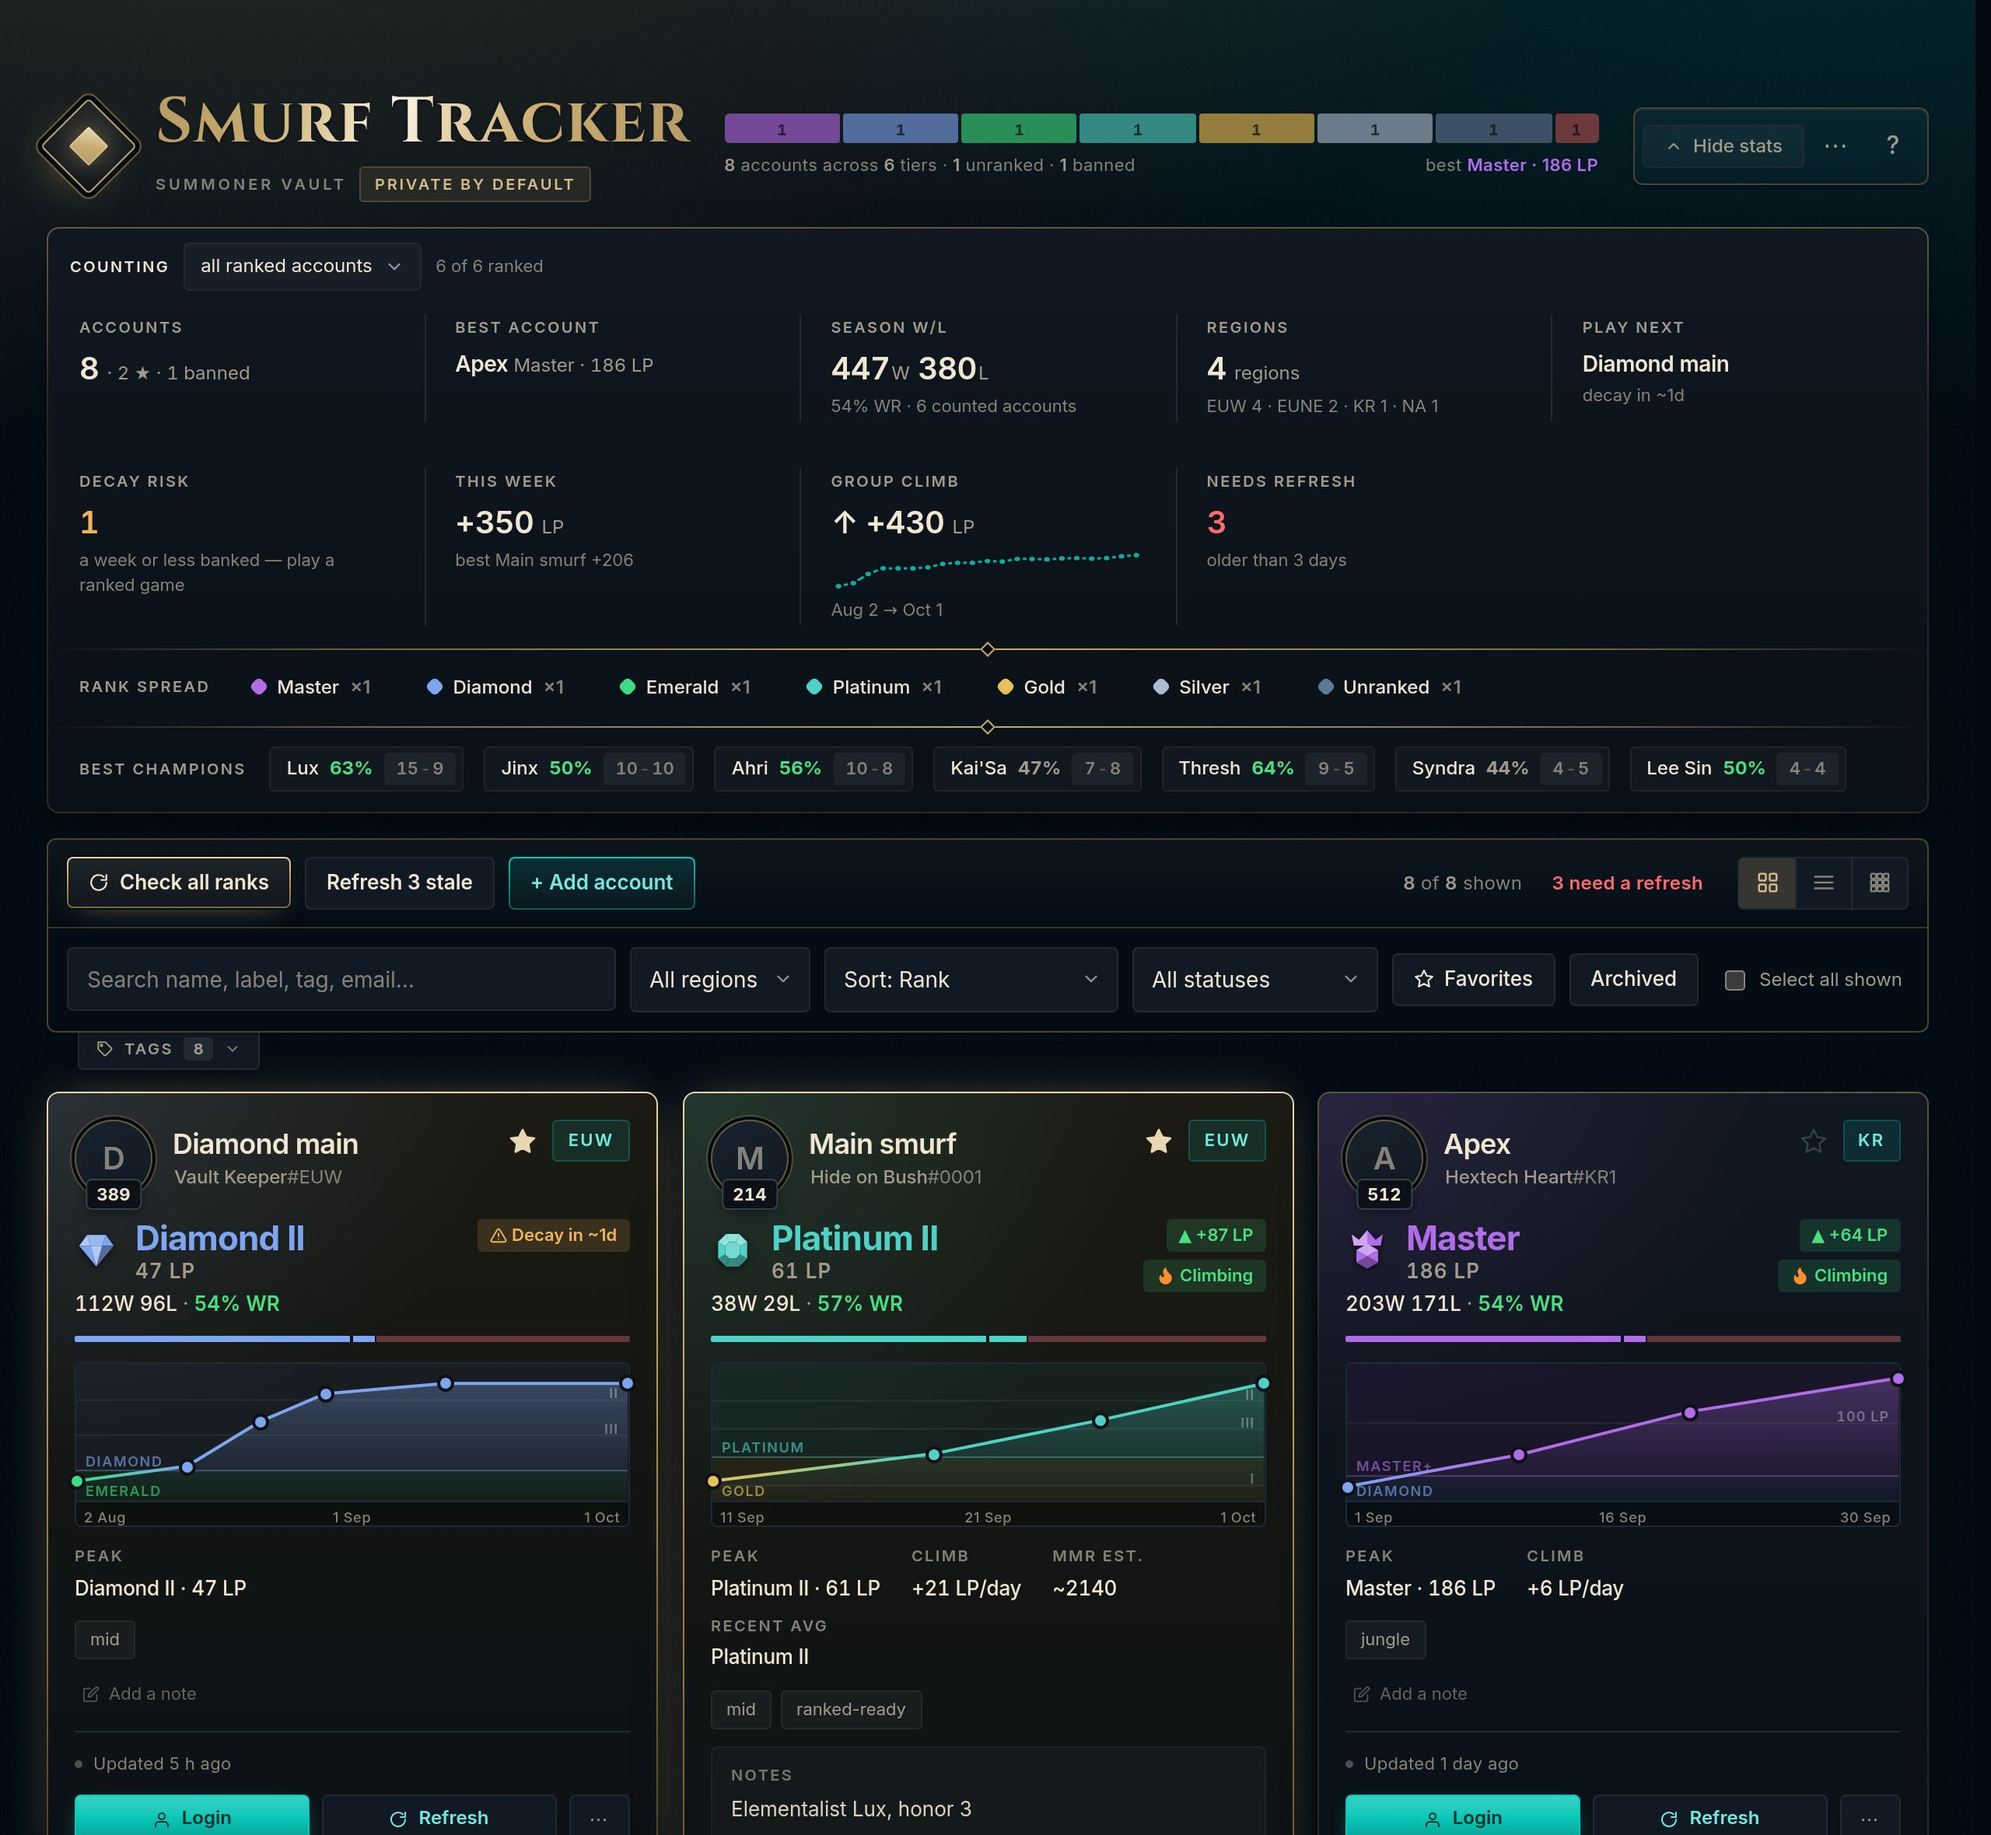
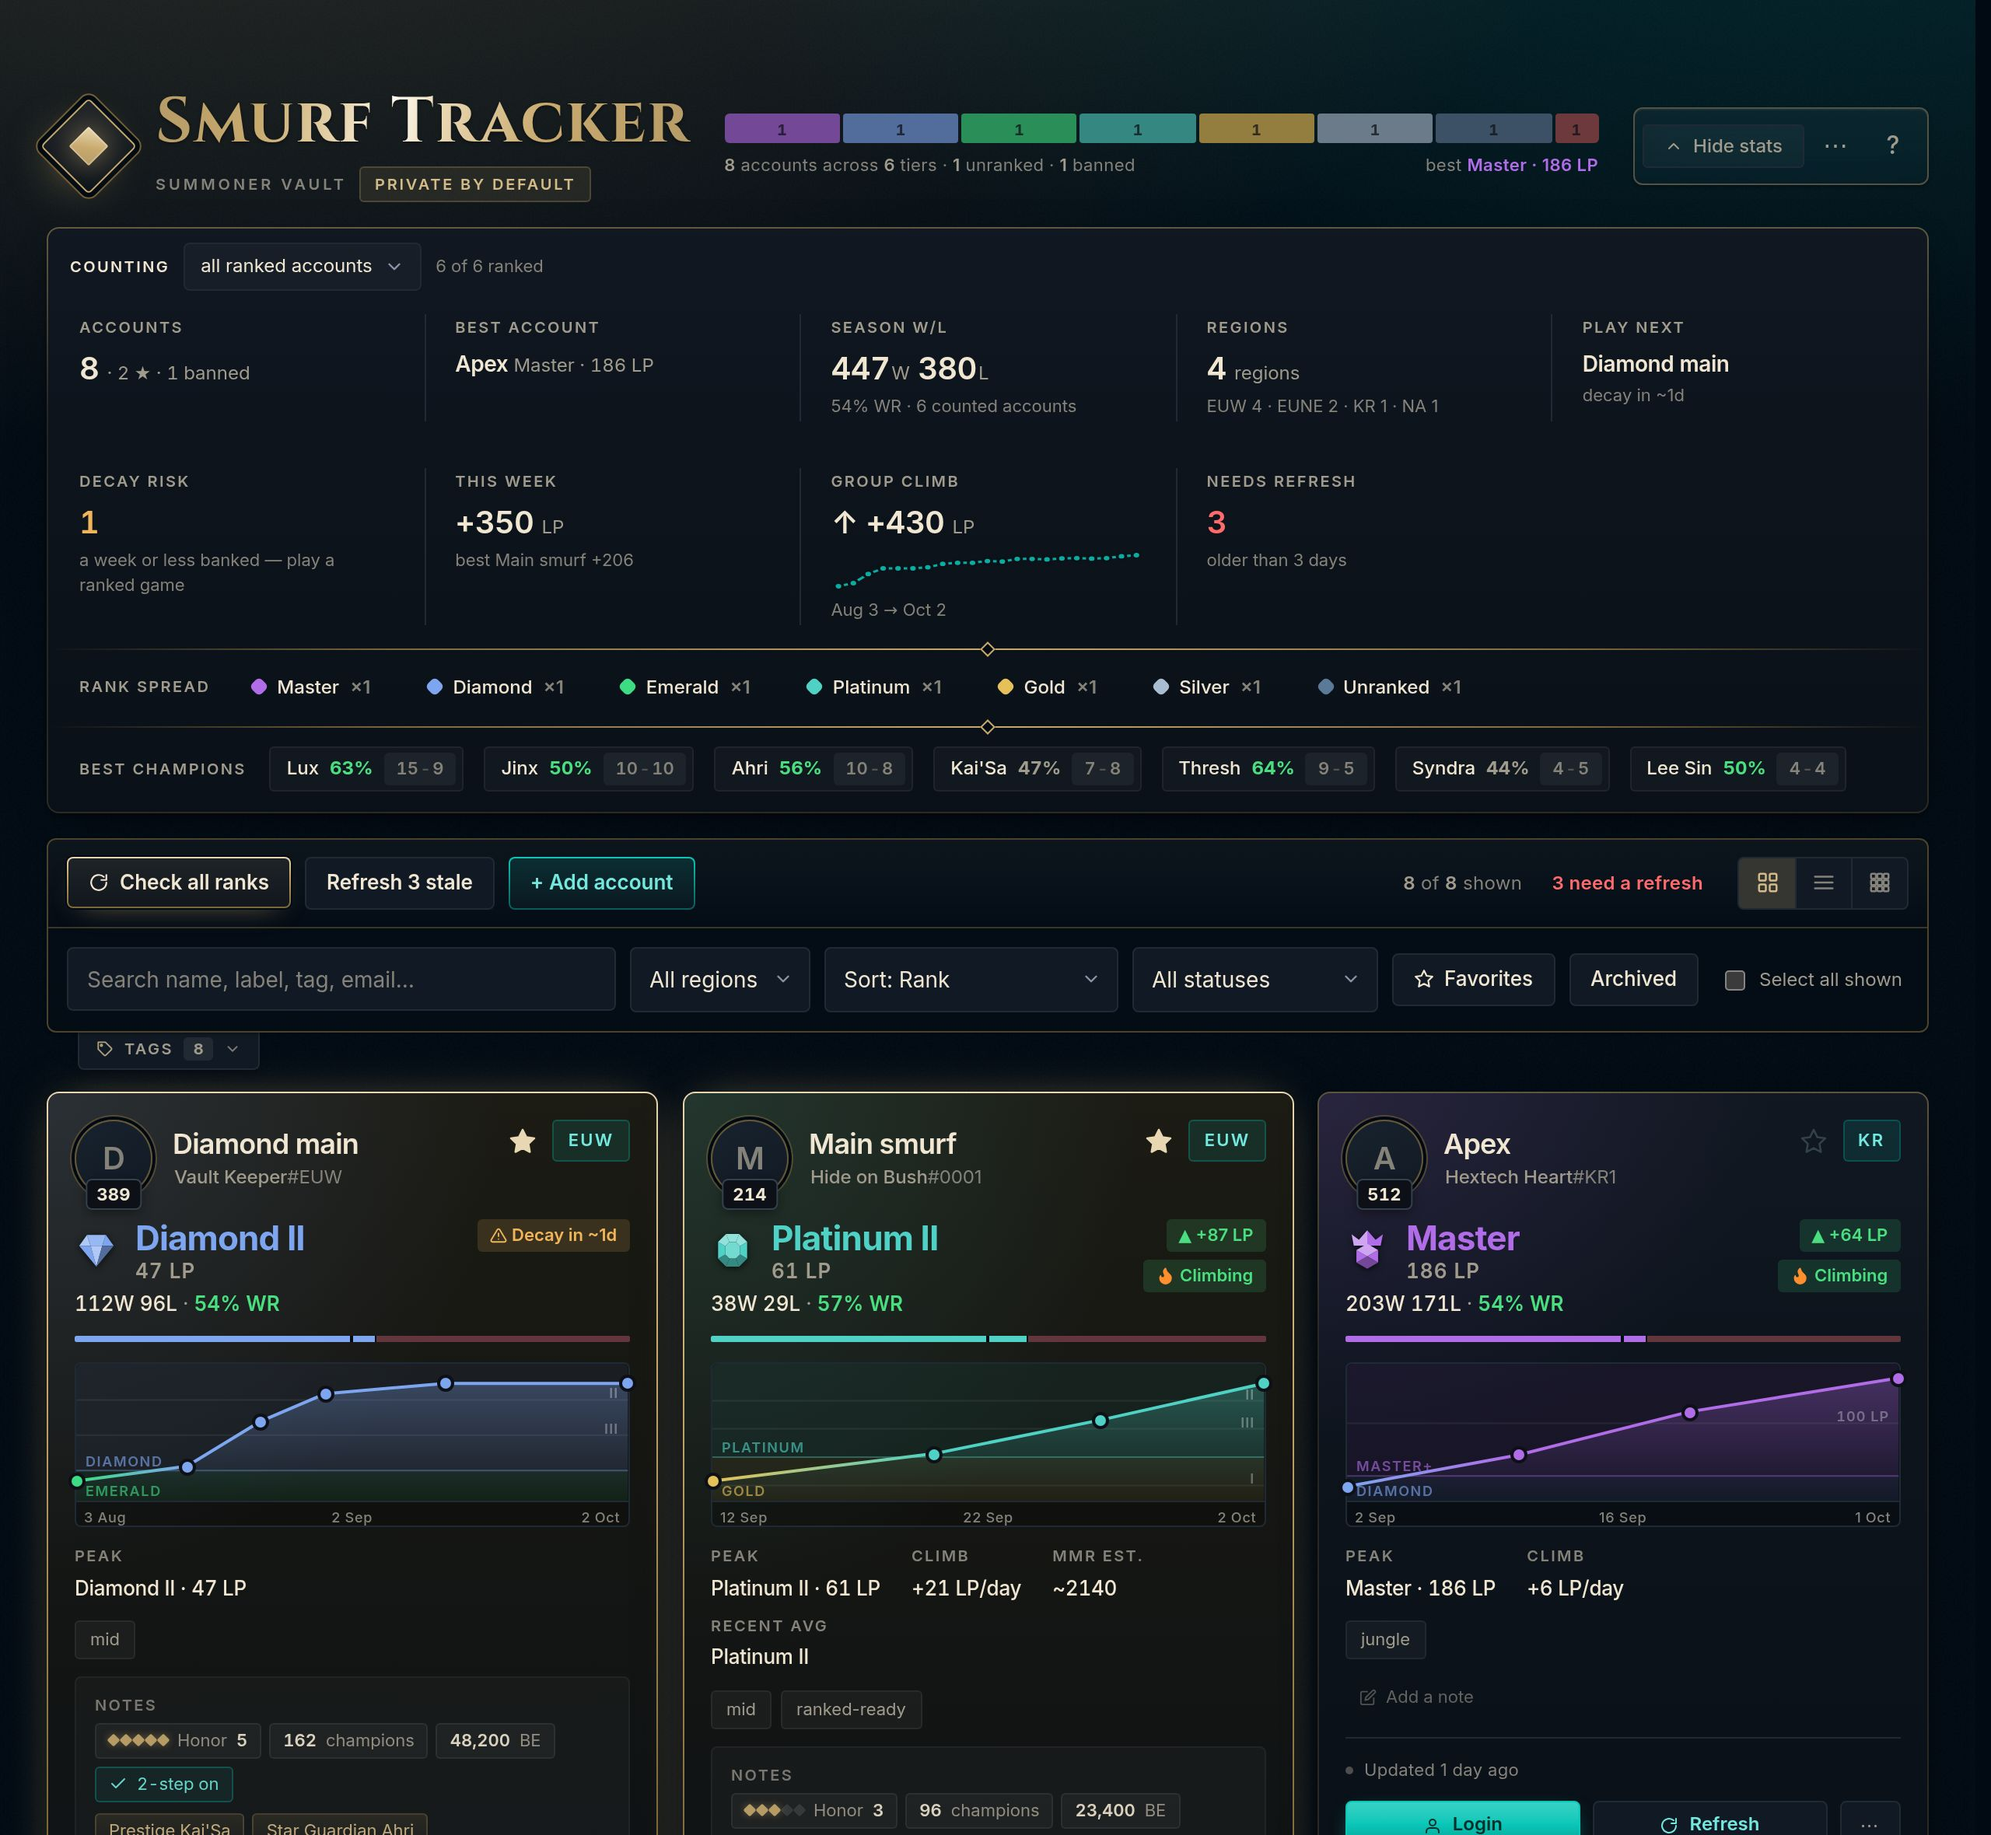
Docs for 2.3: snapshots, card art, note fields.
README lists the three features and shows a shared snapshot. The card
and phone screenshots are retaken so they show note fields.
SECURITY.md says what a snapshot link contains:
- labels, plus Riot IDs only when ticked;
- ranks, and whichever extras you chose;
- never logins, passwords, emails or notes.
It also says why nothing is uploaded (the data sits after the "#"), that
a link can't be taken back, and that opening one never touches the
viewer's own vault. The Data Dragon calls made by Card art… are listed
with the other outbound requests.

Claude-Session: https://claude.ai/code/session_01NnamgZLnB9R1eN7rPhoByV

diff --git a/README.md b/README.md
@@ -14,14 +14,20 @@ Every League account you own in one place: rank, LP history, logins, notes. It r
 - **Ranks without the busywork.** One click checks every account. Each card shows the tier, LP, win rate and level, plus an LP chart that draws the ladder as bands, so a promotion looks like one. Past seasons, flex rank and your champions sit under **Details**.
 - **Tells you what to play.** **Play next** picks the account that needs a game: one about to decay first, otherwise the one you have left longest. **Decay risk** estimates how many days a Diamond+ account has banked from the games seen between checks. **This week** sums up the last seven days, and **Needs refresh** counts the accounts whose rank is old. With your worker, **decay alerts reach your Discord** even while the app is closed.
 - **Logins kept safe.** Username, password and email per account, hidden until you ask. Set a master password and everything is encrypted (AES-256, 600 000 PBKDF2 rounds), with auto-lock. **Copy username, then password** fills a login screen in two pastes, and copied passwords clear after 30 seconds.
-- **Three layouts, your look.** Cards to browse, a list to work through a big vault, or a wall of rank crests to see the whole collection at once. Pick a theme (Hextech, Shadow Isles, Noxus, Piltover, Freljord, Ionia, Void, or one that follows your best rank), choose what each card shows, and set the effects and text size. Each card can carry its account's most-played champion as art.
+- **Three layouts, your look.** Cards to browse, a list to work through a big vault, or a wall of rank crests to see the whole collection at once. Pick a theme (Hextech, Shadow Isles, Noxus, Piltover, Freljord, Ionia, Void, or one that follows your best rank), choose what each card shows, and set the effects and text size. Each card can carry champion art: its most-played champion by default, or any champion and skin you pick with **Card art…**.
+- **Notes with fields.** Honor level, skins, champions owned, Blue Essence, 2-step verification and penalties, plus fields of your own (where an account came from, what it cost). Every card shows them the same way, and search finds them.
+- **Share a snapshot.** A read-only page of your ranks in one link, to send a friend: best rank, games, win rate, then each account with its art and LP line. You choose which accounts and whether Riot IDs are shown. Logins, emails and notes are never in it, and nothing is uploaded: the link itself is the page.
 - **Streamer mode.** Press <kbd>H</kbd> and Riot IDs, logins, emails and notes are blurred, so you can stream or share your screen.
-- **Finds things fast.** Search names, tags and ranks, or combine filters like `>diamond is:stale`, `region:euw`, `is:decay`, `champ:yasuo` or `role:mid`. Accounts still levelling show how far they are from 30, and `is:ready` lists the ones that can play ranked.
+- **Finds things fast.** Search names, tags, notes, skins and ranks, or combine filters like `>diamond is:stale`, `region:euw`, `is:decay`, `champ:yasuo` or `role:mid`. Accounts still levelling show how far they are from 30, and `is:ready` lists the ones that can play ranked.
 - **Backups and sync.** Export a plain or encrypted backup, add many accounts at once (a list of `Name#TAG`s, an op.gg multi-search link or the lobby chat), or sync phone and PC through your own worker. Only the encrypted vault is uploaded. A new split? **New season** moves every rank into Past seasons in one go.
 
 | List | Wall | Phone |
 |---|---|---|
 | ![List view](docs/screenshots/list.jpg) | ![Wall view](docs/screenshots/wall.jpg) | ![On a phone](docs/screenshots/phone.jpg) |
+
+**A shared snapshot**, as a friend sees it:
+
+![A read-only snapshot page: best rank, totals and each account's card](docs/screenshots/snapshot.jpg)
 
 ## Get started
 

diff --git a/SECURITY.md b/SECURITY.md
@@ -41,9 +41,23 @@ in Safari after 7 days without a visit. The app asks the browser to keep the vau
 | **Device sync**, if you set it up      | The **encrypted** vault only (ciphertext)   | Your own Cloudflare worker's KV |
 | **Discord decay alerts**, if you turn them on | Your Diamond+ accounts' Riot IDs, labels and decay estimates, and your Discord webhook URL, in plain text | Your own Cloudflare worker's KV; the worker posts to your webhook |
 | Loading the page                       | Ordinary requests for fonts, rank icons and, unless you turn it off, champion art (the request names the champion) | Google Fonts, op.gg's image CDN, Riot's Data Dragon |
+| Opening **Card art…**                  | Requests for the champion list, one champion's skin list and their pictures. Nothing about you or the account | Riot's Data Dragon |
 
 Logins, passwords and emails are never sent anywhere, except inside the encrypted
 blob when you use device sync.
+
+**Shared snapshots.** *Share a snapshot* puts a read-only page of your ranks into a
+link. Nothing is uploaded: the data is in the part of the link after `#`, which
+browsers do not send to any server, not even the one hosting the page. It contains
+only what the share window lists: labels (Riot IDs only if you tick the box), ranks,
+win/loss, level, peak, and optionally LP history, card art, honor and skins. It never
+contains logins, passwords, emails, notes or your other note fields. Anyone who has
+the link can read it, and a link cannot be taken back, so share it the way you would
+share a screenshot.
+
+Opening a snapshot link shows only that page. It never reads or writes the vault or
+settings stored in that browser, and the page treats everything in the link as
+untrusted input: each value is checked before it is shown.
 
 **Exports.** *Export backup (JSON, plaintext)* writes every password into the file
 in plain text, and the app asks before it does. *Export encrypted backup* needs your
